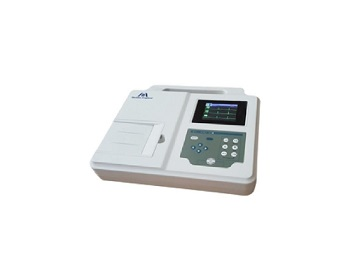
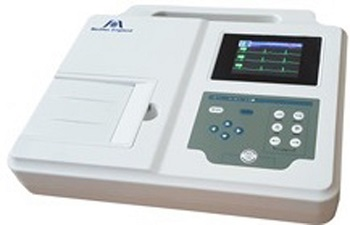
ECG done

diff --git a/Prototype/ecg-1.html b/Prototype/ecg-1.html
@@ -93,7 +93,7 @@
             <div class="row">
 
                 <div class="col-md-5 col-sm-12 col-xs-12">
-                    <img src="images/ecg/ecg-1_350.jpg" alt="Meditec E402 ECG Machine" class="img-responsive img-center">
+                    <img src="images/ecg/ecg-1_768.jpg" alt="Meditec E402 ECG Machine" class="img-responsive img-center">
                 </div>
 
                 <div class="product-detailed-description col-md-7 col-sm-12 col-xs-12">
